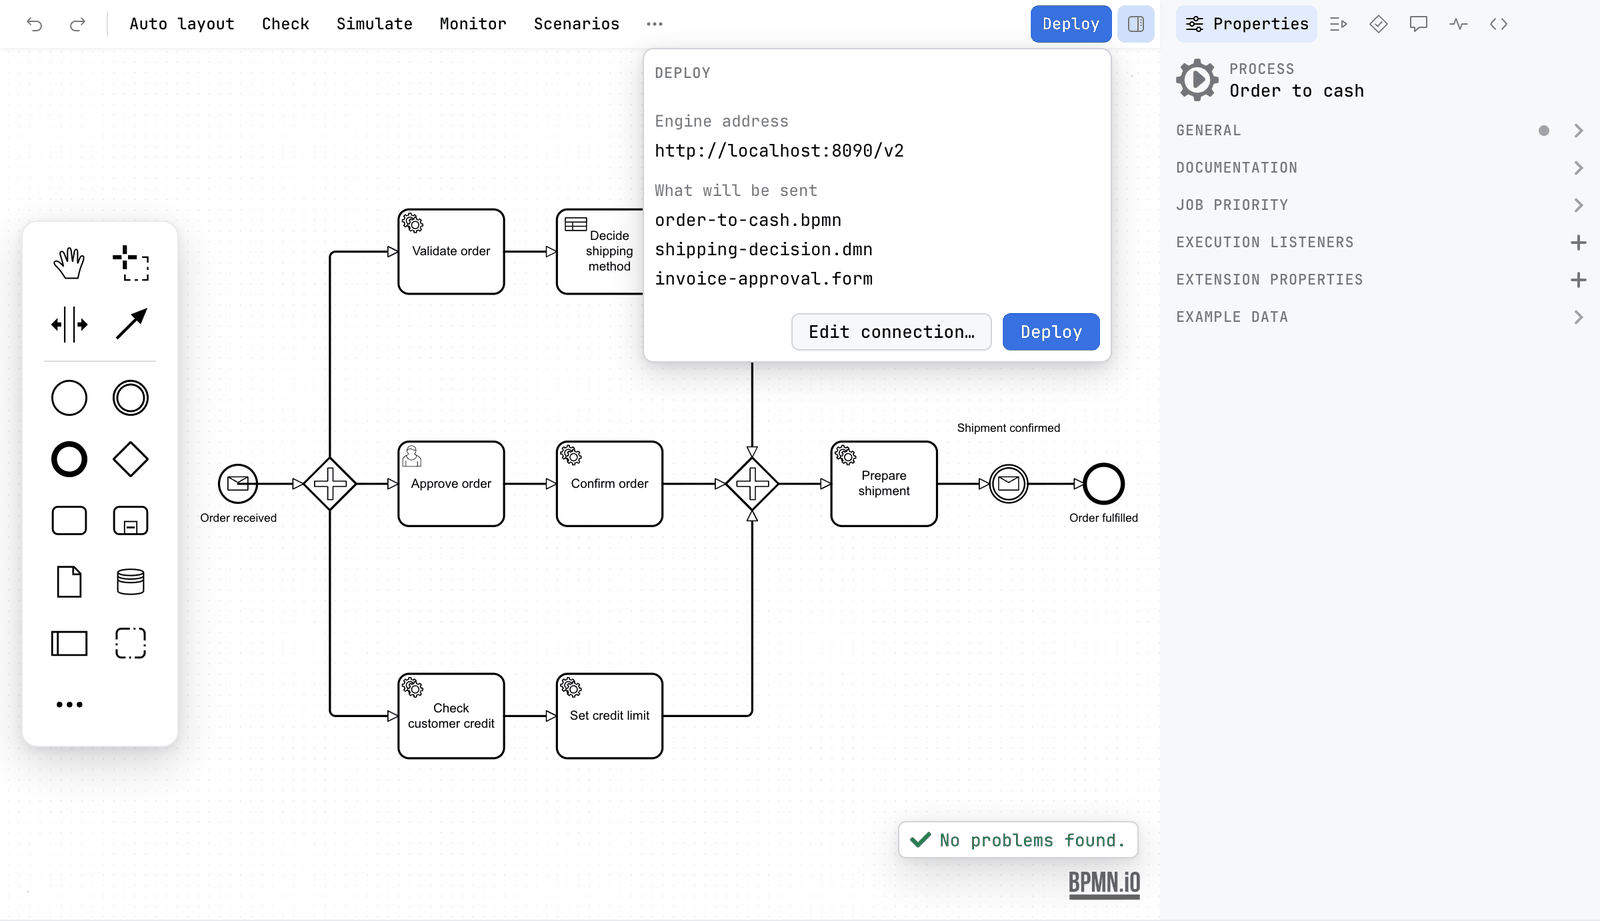
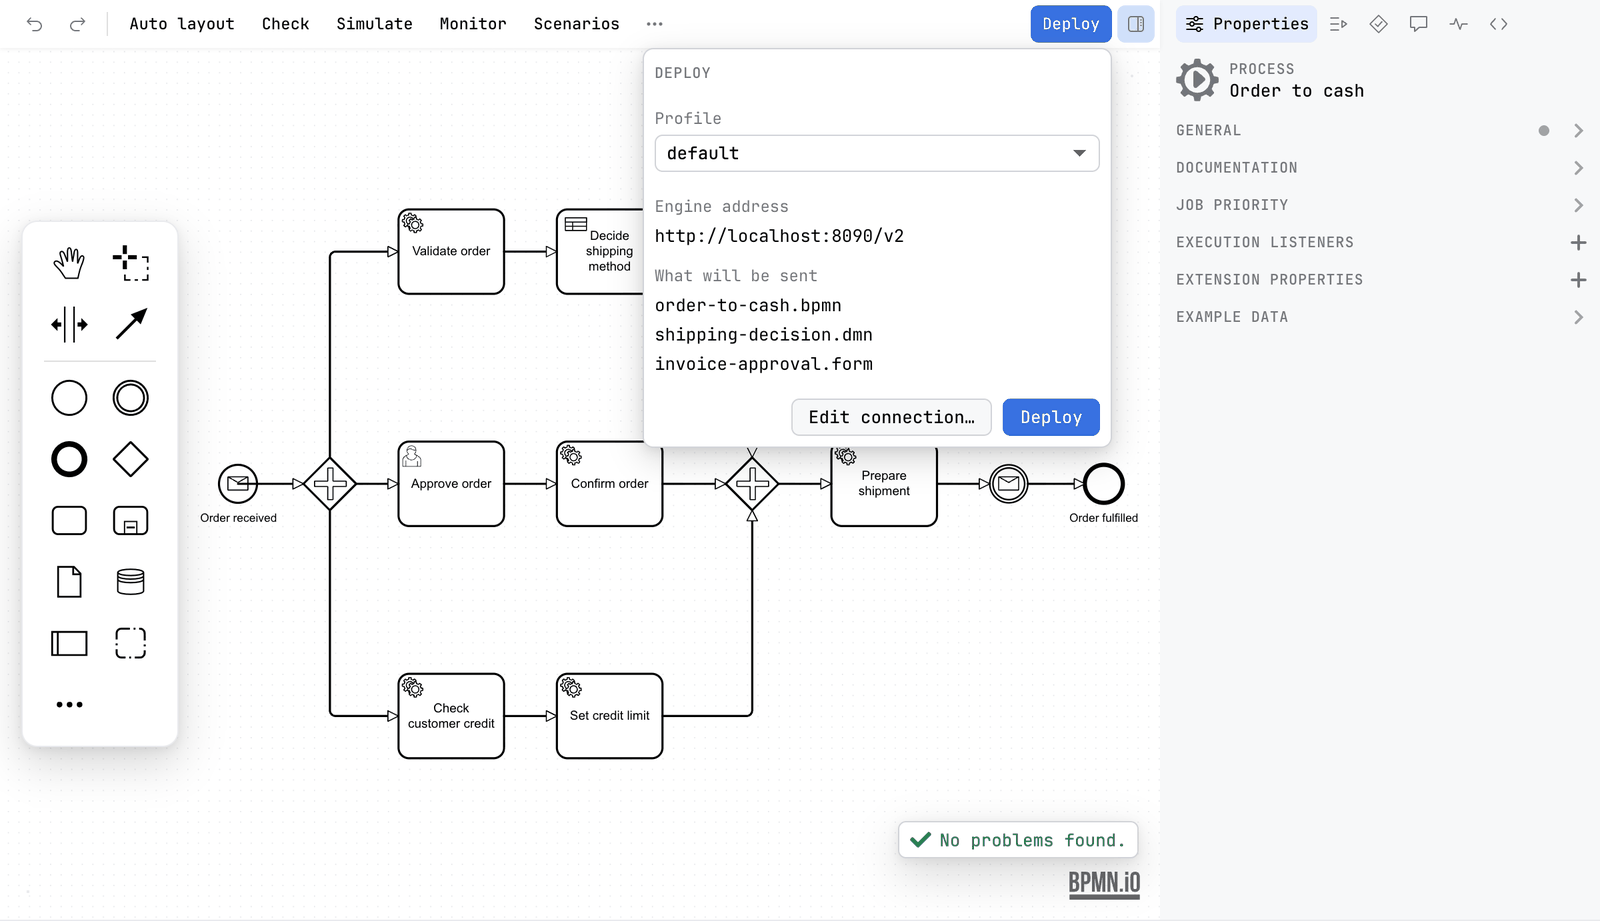
Second round of pictures: comments, validation, problems groups, call activity, trace, DMN

Changed region(s): [[0.4062, 0.1216, 0.6875, 0.5168]]

diff --git a/tools/pages/guide/properties-panel.html b/tools/pages/guide/properties-panel.html
@@ -51,6 +51,11 @@ related: sidebar, engine-profiles, scripts, element-templates
 
 <p>On Camunda 7, Operaton and CIB seven, a field that holds a script is a small code editor with colours. Groovy is coloured as Groovy, all else as JavaScript. Under the field there is a button <span class="ui">Edit in new tab</span> that opens the script in a code editor of your tool. See <a href="scripts.html">Scripts in their own tab</a>.</p>
 
+<figure class="shot">
+  <img src="@img/props-call-activity.png" alt="The call activity Fulfil order selected. The sidebar lists General, Documentation, Called element, Business ID, Input propagation, Input mapping with 1 entry, Output propagation, Output mapping, Execution listeners, Extension properties and Example data">
+  <figcaption>A call activity has groups of its own: Called element, Business ID and the propagation of variables.</figcaption>
+</figure>
+
 <h2>Try an expression on a running instance</h2>
 
 <p>A field that holds an expression, such as a gateway condition or a mapping, has <span class="ui">Try on instance</span>. Pick an instance in the <a href="monitor.html">Monitor</a> tab first, and the expression is run against that instance's variables. The result, or the engine's own complaint, lands under the field. Without an instance the field says <em>Pick an instance in the Monitor tab to run this on its variables.</em> Camunda 8.9 or newer evaluates it. On Camunda 7 the field says <em>Camunda 7 cannot evaluate an expression. It needs Camunda 8.9 or newer.</em> Nothing is written on the engine. See <a href="monitor.html#try-an-expression-on-a-real-instance">Monitor</a>.</p>
@@ -79,7 +84,10 @@ related: sidebar, engine-profiles, scripts, element-templates
   &lt;/bpmn:ioSpecification&gt;
 &lt;/bpmn:serviceTask&gt;</code></pre>
 
-<!-- image: classic-io.png, a Classic BPMN task selected with the Inputs and Outputs groups open in the sidebar -->
+<figure class="shot">
+  <img src="@img/classic-io.png" alt="The user task Check invoice selected. The sidebar shows the groups General and Documentation, then Inputs with 2 entries, orderNumber and invoiceTotal, and Outputs with 1 entry, decision">
+  <figcaption>A task with the Inputs and Outputs groups open.</figcaption>
+</figure>
 
 <p>Remove the last input and the last output and the whole specification goes with them, so a file never has an empty one. Camunda 7 and Camunda 8 keep their own input and output editors, because those write <code>camunda:inputOutput</code> and <code>zeebe:ioMapping</code>, which is what those engines read.</p>
 

diff --git a/docs/guide/properties-panel.html b/docs/guide/properties-panel.html
@@ -182,6 +182,11 @@
 
 <p>On Camunda 7, Operaton and CIB seven, a field that holds a script is a small code editor with colours. Groovy is coloured as Groovy, all else as JavaScript. Under the field there is a button <span class="ui">Edit in new tab</span> that opens the script in a code editor of your tool. See <a href="scripts.html">Scripts in their own tab</a>.</p>
 
+<figure class="shot">
+  <img src="../img/props-call-activity.png" alt="The call activity Fulfil order selected. The sidebar lists General, Documentation, Called element, Business ID, Input propagation, Input mapping with 1 entry, Output propagation, Output mapping, Execution listeners, Extension properties and Example data">
+  <figcaption>A call activity has groups of its own: Called element, Business ID and the propagation of variables.</figcaption>
+</figure>
+
 <h2 id="try-an-expression-on-a-running-instance"><a href="#try-an-expression-on-a-running-instance">Try an expression on a running instance</a></h2>
 
 <p>A field that holds an expression, such as a gateway condition or a mapping, has <span class="ui">Try on instance</span>. Pick an instance in the <a href="monitor.html">Monitor</a> tab first, and the expression is run against that instance's variables. The result, or the engine's own complaint, lands under the field. Without an instance the field says <em>Pick an instance in the Monitor tab to run this on its variables.</em> Camunda 8.9 or newer evaluates it. On Camunda 7 the field says <em>Camunda 7 cannot evaluate an expression. It needs Camunda 8.9 or newer.</em> Nothing is written on the engine. See <a href="monitor.html#try-an-expression-on-a-real-instance">Monitor</a>.</p>
@@ -209,6 +214,10 @@
   &lt;/bpmn:ioSpecification&gt;
 &lt;/bpmn:serviceTask&gt;</code></pre>
 
+<figure class="shot">
+  <img src="../img/classic-io.png" alt="The user task Check invoice selected. The sidebar shows the groups General and Documentation, then Inputs with 2 entries, orderNumber and invoiceTotal, and Outputs with 1 entry, decision">
+  <figcaption>A task with the Inputs and Outputs groups open.</figcaption>
+</figure>
 
 <p>Remove the last input and the last output and the whole specification goes with them, so a file never has an empty one. Camunda 7 and Camunda 8 keep their own input and output editors, because those write <code>camunda:inputOutput</code> and <code>zeebe:ioMapping</code>, which is what those engines read.</p>
 

diff --git a/tools/pages/guide/comments.html b/tools/pages/guide/comments.html
@@ -21,6 +21,11 @@ related: sidebar, bpmn-editor, editing, files
 
 <p>The name is the one your version control has for the project. You can leave the name empty, and the comment is then shown as <em>Anonymous</em>. Each comment shows who wrote it and when.</p>
 
+<figure class="shot">
+  <img src="@img/comments-add.png" alt="The Comments tab for Review credit hold with No comments yet. The field Add a comment holds the text Escalation is too late for gold customers. Move it to 24 hours? The line under it says Signed kern0x1b, and Add comment is a blue button">
+  <figcaption>A comment typed into Add a comment. The line under the field says who signs it.</figcaption>
+</figure>
+
 <h2>Work with a comment</h2>
 
 <div class="table-wrap"><table class="facts">
@@ -34,7 +39,10 @@ related: sidebar, bpmn-editor, editing, files
 
 <p>Adding, editing, resolving, reopening and deleting a comment are each one step of Undo, like any other change to the diagram.</p>
 
-<!-- image: comments-thread.png, the Comments tab with the thread of one element, a resolved comment and the Add a comment field -->
+<figure class="shot">
+  <img src="@img/comments-thread.png" alt="The Comments tab for the element Review credit hold, opened with a back arrow. Two comments, by Alex Morgan and Priya Nair, each have Resolve and Delete. A third, by Priya Nair, is marked Resolved and has Reopen and Delete. Under them is the field Add a comment with the line Signed kern0x1b and an Add comment button that is off">
+  <figcaption>The thread of one element. Open comments offer Resolve and Delete, a resolved one is labelled Resolved and offers Reopen and Delete.</figcaption>
+</figure>
 
 <h2>The list of the whole diagram</h2>
 
@@ -53,6 +61,11 @@ related: sidebar, bpmn-editor, editing, files
 </figure>
 
 <p>A label, and anything that is not a BPMN element, cannot take comments. The tab says so when you select one.</p>
+
+<figure class="shot">
+  <img src="@img/comments-list.png" alt="The Comments tab with nothing selected. It says 3 open comments and has a button Show resolved (1). Review credit hold is listed with 2 open, 1 resolved and two comments, and Check guarantee with 1 open and one comment">
+  <figcaption>The list of the whole diagram: the open comments grouped by element, and Show resolved with its count.</figcaption>
+</figure>
 
 <h2>The badges on the canvas</h2>
 

diff --git a/docs/guide/comments.html b/docs/guide/comments.html
@@ -150,6 +150,11 @@
 
 <p>The name is the one your version control has for the project. You can leave the name empty, and the comment is then shown as <em>Anonymous</em>. Each comment shows who wrote it and when.</p>
 
+<figure class="shot">
+  <img src="../img/comments-add.png" alt="The Comments tab for Review credit hold with No comments yet. The field Add a comment holds the text Escalation is too late for gold customers. Move it to 24 hours? The line under it says Signed kern0x1b, and Add comment is a blue button">
+  <figcaption>A comment typed into Add a comment. The line under the field says who signs it.</figcaption>
+</figure>
+
 <h2 id="work-with-a-comment"><a href="#work-with-a-comment">Work with a comment</a></h2>
 
 <div class="table-wrap"><div class="table-wrap"><table class="facts">
@@ -163,6 +168,10 @@
 
 <p>Adding, editing, resolving, reopening and deleting a comment are each one step of Undo, like any other change to the diagram.</p>
 
+<figure class="shot">
+  <img src="../img/comments-thread.png" alt="The Comments tab for the element Review credit hold, opened with a back arrow. Two comments, by Alex Morgan and Priya Nair, each have Resolve and Delete. A third, by Priya Nair, is marked Resolved and has Reopen and Delete. Under them is the field Add a comment with the line Signed kern0x1b and an Add comment button that is off">
+  <figcaption>The thread of one element. Open comments offer Resolve and Delete, a resolved one is labelled Resolved and offers Reopen and Delete.</figcaption>
+</figure>
 
 <h2 id="the-list-of-the-whole-diagram"><a href="#the-list-of-the-whole-diagram">The list of the whole diagram</a></h2>
 
@@ -181,6 +190,11 @@
 </figure>
 
 <p>A label, and anything that is not a BPMN element, cannot take comments. The tab says so when you select one.</p>
+
+<figure class="shot">
+  <img src="../img/comments-list.png" alt="The Comments tab with nothing selected. It says 3 open comments and has a button Show resolved (1). Review credit hold is listed with 2 open, 1 resolved and two comments, and Check guarantee with 1 open and one comment">
+  <figcaption>The list of the whole diagram: the open comments grouped by element, and Show resolved with its count.</figcaption>
+</figure>
 
 <h2 id="the-badges-on-the-canvas"><a href="#the-badges-on-the-canvas">The badges on the canvas</a></h2>
 

diff --git a/tools/pages/guide/dmn-editor.html b/tools/pages/guide/dmn-editor.html
@@ -134,6 +134,11 @@ related: form-editor, deployment, share-html, flow-analysis, sidebar, trace-path
   <li>With no decision table open the tab says <em>Select a decision table to try it.</em></li>
 </ul>
 
+<figure class="shot">
+  <img src="@img/dmn-try-cannot-evaluate.png" alt="The Try tab beside the Gift handling table, with Order note Gift for Sam and Order total 120. Rule 3 is marked. The sentence says Rule 3 matches; it returns handling = Standard pack; Penstock cannot evaluate this cell here: starts with(?, "Gift"). The same words repeat in amber, and the output handling Standard pack is below">
+  <figcaption>A cell Penstock cannot read is named in the sentence and in amber, not guessed at.</figcaption>
+</figure>
+
 <h2 id="spreadsheets">Decision tables and spreadsheets</h2>
 
 <p>A decision table goes to a spreadsheet and back, so the rules can be read and edited in a spreadsheet. These actions are in the <span class="ui">More</span> menu, under File. The first three are offered while a decision table is open.</p>
@@ -176,6 +181,11 @@ related: form-editor, deployment, share-html, flow-analysis, sidebar, trace-path
   <tr><td>A table with an expression the check cannot read</td><td><a href="../rules/table-table-unread">table/table-unread</a></td></tr>
   </tbody>
 </table></div>
+
+<figure class="shot">
+  <img src="@img/dmn-check-unread.png" alt="The Requirements view with the Decision check card open. It reads 1 problem, with Recheck and Close, and the finding A decision table could not be checked: Gift handling uses expressions in its rules that are more than comparisons, ranges and lists, so its rules were not compared. Show all is at the foot">
+  <figcaption>The card for a table the check cannot read.</figcaption>
+</figure>
 
 <p>Cells are read as FEEL unary tests: comparisons, ranges, lists, strings, booleans and <code>not()</code>. In an integer column the space between two whole numbers is not counted as a gap. When all is well the card says <em>No rules overlap, and every input has a rule.</em></p>
 

diff --git a/docs/guide/validation.html b/docs/guide/validation.html
@@ -149,6 +149,16 @@
 
 <p>The same finding is in the <strong>Problems</strong> tab of the <a href="sidebar.html">sidebar</a>, beside the drawing problems, with its error or warning icon and the id of the rule. Clicking it selects the element and opens the property that fixes it. See <a href="diagram-check.html">Diagram check</a>.</p>
 
+<figure class="shot">
+  <img src="../img/validation-marker.png" alt="A diagram whose script task has no name. The toolbar pill reads 1 error, and the Problems tab of the sidebar has a badge of 1">
+  <figcaption>A task with no name. The count of the check is in the pill at the bottom right and on the Problems tab.</figcaption>
+</figure>
+
+<figure class="shot">
+  <img src="../img/validation-rules-group.png" alt="The Problems tab after Check, reading 1 error. Under the group Rules, the finding The script task has no name, script task, label-required">
+  <figcaption>The same finding under Rules, with its rule name.</figcaption>
+</figure>
+
 <p>The linting button on the canvas turns the markers off and on. It starts on. It is hidden while a token simulation runs.</p>
 
 <h2 id="which-rules-apply"><a href="#which-rules-apply">Which rules apply</a></h2>
@@ -184,6 +194,11 @@
   <li>To turn one off, set it to <code>off</code> in <code>.bpmnlintrc</code> as <code>camunda-compat/&lt;rule&gt;</code>, which is the plugin's own name, or as <code>compat/&lt;rule&gt;</code>.</li>
   <li>A problem that another check already reports on the same element, for example two blank start events, is shown once, by bpmnlint.</li>
 </ul>
+
+<figure class="shot">
+  <img src="../img/validation-compat.png" alt="The Problems tab reading 1 error. Under the group Rules, the finding Notify carrier has no job type, Notify carrier, compat/implementation. The service task Notify carrier is on the canvas">
+  <figcaption>An engine compatibility finding, listed under Rules with its compat id.</figcaption>
+</figure>
 
 <h2 id="on-the-command-line"><a href="#on-the-command-line">On the command line</a></h2>
 

diff --git a/tools/pages/guide/validation.html b/tools/pages/guide/validation.html
@@ -19,6 +19,16 @@ related: diagram-check, settings, sidebar, cli/commands
 
 <p>The same finding is in the <strong>Problems</strong> tab of the <a href="sidebar.html">sidebar</a>, beside the drawing problems, with its error or warning icon and the id of the rule. Clicking it selects the element and opens the property that fixes it. See <a href="diagram-check.html">Diagram check</a>.</p>
 
+<figure class="shot">
+  <img src="@img/validation-marker.png" alt="A diagram whose script task has no name. The toolbar pill reads 1 error, and the Problems tab of the sidebar has a badge of 1">
+  <figcaption>A task with no name. The count of the check is in the pill at the bottom right and on the Problems tab.</figcaption>
+</figure>
+
+<figure class="shot">
+  <img src="@img/validation-rules-group.png" alt="The Problems tab after Check, reading 1 error. Under the group Rules, the finding The script task has no name, script task, label-required">
+  <figcaption>The same finding under Rules, with its rule name.</figcaption>
+</figure>
+
 <p>The linting button on the canvas turns the markers off and on. It starts on. It is hidden while a token simulation runs.</p>
 
 <h2>Which rules apply</h2>
@@ -54,6 +64,11 @@ related: diagram-check, settings, sidebar, cli/commands
   <li>To turn one off, set it to <code>off</code> in <code>.bpmnlintrc</code> as <code>camunda-compat/&lt;rule&gt;</code>, which is the plugin's own name, or as <code>compat/&lt;rule&gt;</code>.</li>
   <li>A problem that another check already reports on the same element, for example two blank start events, is shown once, by bpmnlint.</li>
 </ul>
+
+<figure class="shot">
+  <img src="@img/validation-compat.png" alt="The Problems tab reading 1 error. Under the group Rules, the finding Notify carrier has no job type, Notify carrier, compat/implementation. The service task Notify carrier is on the canvas">
+  <figcaption>An engine compatibility finding, listed under Rules with its compat id.</figcaption>
+</figure>
 
 <h2>On the command line</h2>
 

diff --git a/docs/guide/dmn-editor.html b/docs/guide/dmn-editor.html
@@ -266,6 +266,11 @@
   <li>With no decision table open the tab says <em>Select a decision table to try it.</em></li>
 </ul>
 
+<figure class="shot">
+  <img src="../img/dmn-try-cannot-evaluate.png" alt="The Try tab beside the Gift handling table, with Order note Gift for Sam and Order total 120. Rule 3 is marked. The sentence says Rule 3 matches; it returns handling = Standard pack; Penstock cannot evaluate this cell here: starts with(?, "Gift"). The same words repeat in amber, and the output handling Standard pack is below">
+  <figcaption>A cell Penstock cannot read is named in the sentence and in amber, not guessed at.</figcaption>
+</figure>
+
 <h2 id="spreadsheets"><a href="#spreadsheets">Decision tables and spreadsheets</a></h2>
 
 <p>A decision table goes to a spreadsheet and back, so the rules can be read and edited in a spreadsheet. These actions are in the <span class="ui">More</span> menu, under File. The first three are offered while a decision table is open.</p>
@@ -307,6 +312,11 @@
   <tr><td>A table with an expression the check cannot read</td><td><a href="../rules/table-table-unread">table/table-unread</a></td></tr>
   </tbody>
 </table></div></div>
+
+<figure class="shot">
+  <img src="../img/dmn-check-unread.png" alt="The Requirements view with the Decision check card open. It reads 1 problem, with Recheck and Close, and the finding A decision table could not be checked: Gift handling uses expressions in its rules that are more than comparisons, ranges and lists, so its rules were not compared. Show all is at the foot">
+  <figcaption>The card for a table the check cannot read.</figcaption>
+</figure>
 
 <p>Cells are read as FEEL unary tests: comparisons, ranges, lists, strings, booleans and <code>not()</code>. In an integer column the space between two whole numbers is not counted as a gap. When all is well the card says <em>No rules overlap, and every input has a rule.</em></p>
 

diff --git a/tools/pages/guide/diagram-check.html b/tools/pages/guide/diagram-check.html
@@ -65,6 +65,11 @@ related: validation, flow-analysis, auto-layout, sidebar, cli/commands
 
 <p>The Problems tab groups findings by what they are about, in this order. A group only appears when it has something to say.</p>
 
+<figure class="shot">
+  <img src="@img/problems-groups.png" alt="The Problems tab reading 5 errors, 1 readability. The groups How it runs, Drawing, Engine, Code and Rules each hold one finding, and Readability (1) is collapsed at the foot. The Migrate to Camunda 8 button is on the toolbar">
+  <figcaption>A Problems tab with a group for each kind of finding, in order. Readability is collapsed.</figcaption>
+</figure>
+
 <div class="table-wrap"><table>
   <thead><tr><th>Group</th><th>What it lists</th><th>Needs</th></tr></thead>
   <tbody>
@@ -79,6 +84,11 @@ related: validation, flow-analysis, auto-layout, sidebar, cli/commands
 </table></div>
 
 <p>Without Pro, the flow group is one row that says how many such problems it found and offers to buy it. The same analysis is the flow section of <code>penstock check</code>, or <code>penstock check --only flow</code> on its own.</p>
+
+<figure class="shot">
+  <img src="@img/problems-engine-fix.png" alt="The Problems tab reading 1 error. Under the group Engine, the finding Wrong engine namespace: This is an Operaton project, but the diagram uses the Camunda 7 namespace, with a Fix button at its right">
+  <figcaption>The Engine group. A finding that has a safe repair offers Fix.</figcaption>
+</figure>
 
 <h2>Drawing and rules are different</h2>
 

diff --git a/docs/guide/diagram-check.html b/docs/guide/diagram-check.html
@@ -196,6 +196,11 @@
 
 <p>The Problems tab groups findings by what they are about, in this order. A group only appears when it has something to say.</p>
 
+<figure class="shot">
+  <img src="../img/problems-groups.png" alt="The Problems tab reading 5 errors, 1 readability. The groups How it runs, Drawing, Engine, Code and Rules each hold one finding, and Readability (1) is collapsed at the foot. The Migrate to Camunda 8 button is on the toolbar">
+  <figcaption>A Problems tab with a group for each kind of finding, in order. Readability is collapsed.</figcaption>
+</figure>
+
 <div class="table-wrap"><div class="table-wrap"><table>
   <thead><tr><th>Group</th><th>What it lists</th><th>Needs</th></tr></thead>
   <tbody>
@@ -210,6 +215,11 @@
 </table></div></div>
 
 <p>Without Pro, the flow group is one row that says how many such problems it found and offers to buy it. The same analysis is the flow section of <code>penstock check</code>, or <code>penstock check --only flow</code> on its own.</p>
+
+<figure class="shot">
+  <img src="../img/problems-engine-fix.png" alt="The Problems tab reading 1 error. Under the group Engine, the finding Wrong engine namespace: This is an Operaton project, but the diagram uses the Camunda 7 namespace, with a Fix button at its right">
+  <figcaption>The Engine group. A finding that has a safe repair offers Fix.</figcaption>
+</figure>
 
 <h2 id="drawing-and-rules-are-different"><a href="#drawing-and-rules-are-different">Drawing and rules are different</a></h2>
 

diff --git a/docs/guide/deployment.html b/docs/guide/deployment.html
@@ -149,8 +149,8 @@
 <p>Deploy sends the state of the canvas, including edits that have not reached the disk yet. The DMN and form editors have the same button, and the result is still a notification. Under the Classic BPMN profile there is no deployment target, so there is no button. See <a href="engine-profiles.html">Engines</a>.</p>
 
 <figure class="shot">
-  <img src="../img/deploy-popover.png" alt="The Deploy popover open under the Deploy button. It shows the engine address http://localhost:8090/v2, a What will be sent list with order-to-cash.bpmn, shipping-decision.dmn and invoice-approval.form, and the buttons Edit connection and Deploy">
-  <figcaption>The popover. It lists the engine address and the files it will send before anything is deployed.</figcaption>
+  <img src="../img/deploy-popover.png" alt="The Deploy popover open under the Deploy button. The field Profile is set to default, the Engine address is http://localhost:8090/v2, What will be sent lists order-to-cash.bpmn, shipping-decision.dmn and invoice-approval.form, and Edit connection and Deploy are at the foot">
+  <figcaption>The popover. It shows the profile, the engine address and the files it will send before anything is deployed.</figcaption>
 </figure>
 
 <h2 id="what-the-popover-tells-you"><a href="#what-the-popover-tells-you">What the popover tells you</a></h2>

diff --git a/tools/pages/guide/deployment.html b/tools/pages/guide/deployment.html
@@ -17,8 +17,8 @@ related: profiles, settings, security, cli/commands, monitor
 <p>Deploy sends the state of the canvas, including edits that have not reached the disk yet. The DMN and form editors have the same button, and the result is still a notification. Under the Classic BPMN profile there is no deployment target, so there is no button. See <a href="engine-profiles.html">Engines</a>.</p>
 
 <figure class="shot">
-  <img src="@img/deploy-popover.png" alt="The Deploy popover open under the Deploy button. It shows the engine address http://localhost:8090/v2, a What will be sent list with order-to-cash.bpmn, shipping-decision.dmn and invoice-approval.form, and the buttons Edit connection and Deploy">
-  <figcaption>The popover. It lists the engine address and the files it will send before anything is deployed.</figcaption>
+  <img src="@img/deploy-popover.png" alt="The Deploy popover open under the Deploy button. The field Profile is set to default, the Engine address is http://localhost:8090/v2, What will be sent lists order-to-cash.bpmn, shipping-decision.dmn and invoice-approval.form, and Edit connection and Deploy are at the foot">
+  <figcaption>The popover. It shows the profile, the engine address and the files it will send before anything is deployed.</figcaption>
 </figure>
 
 <h2>What the popover tells you</h2>
